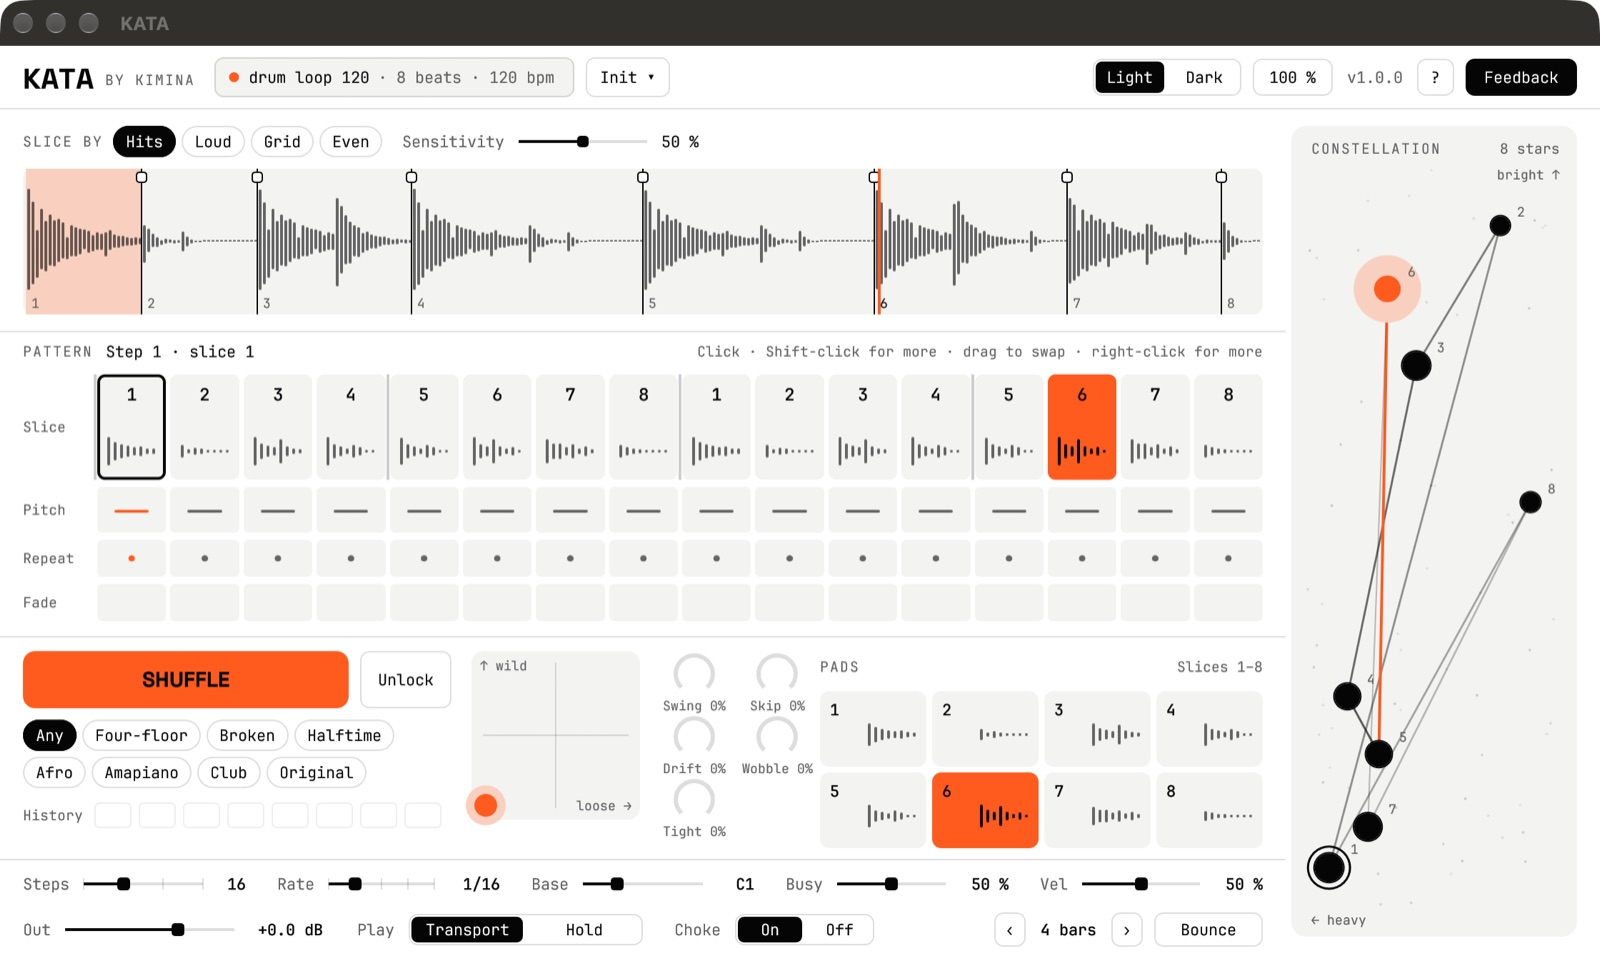
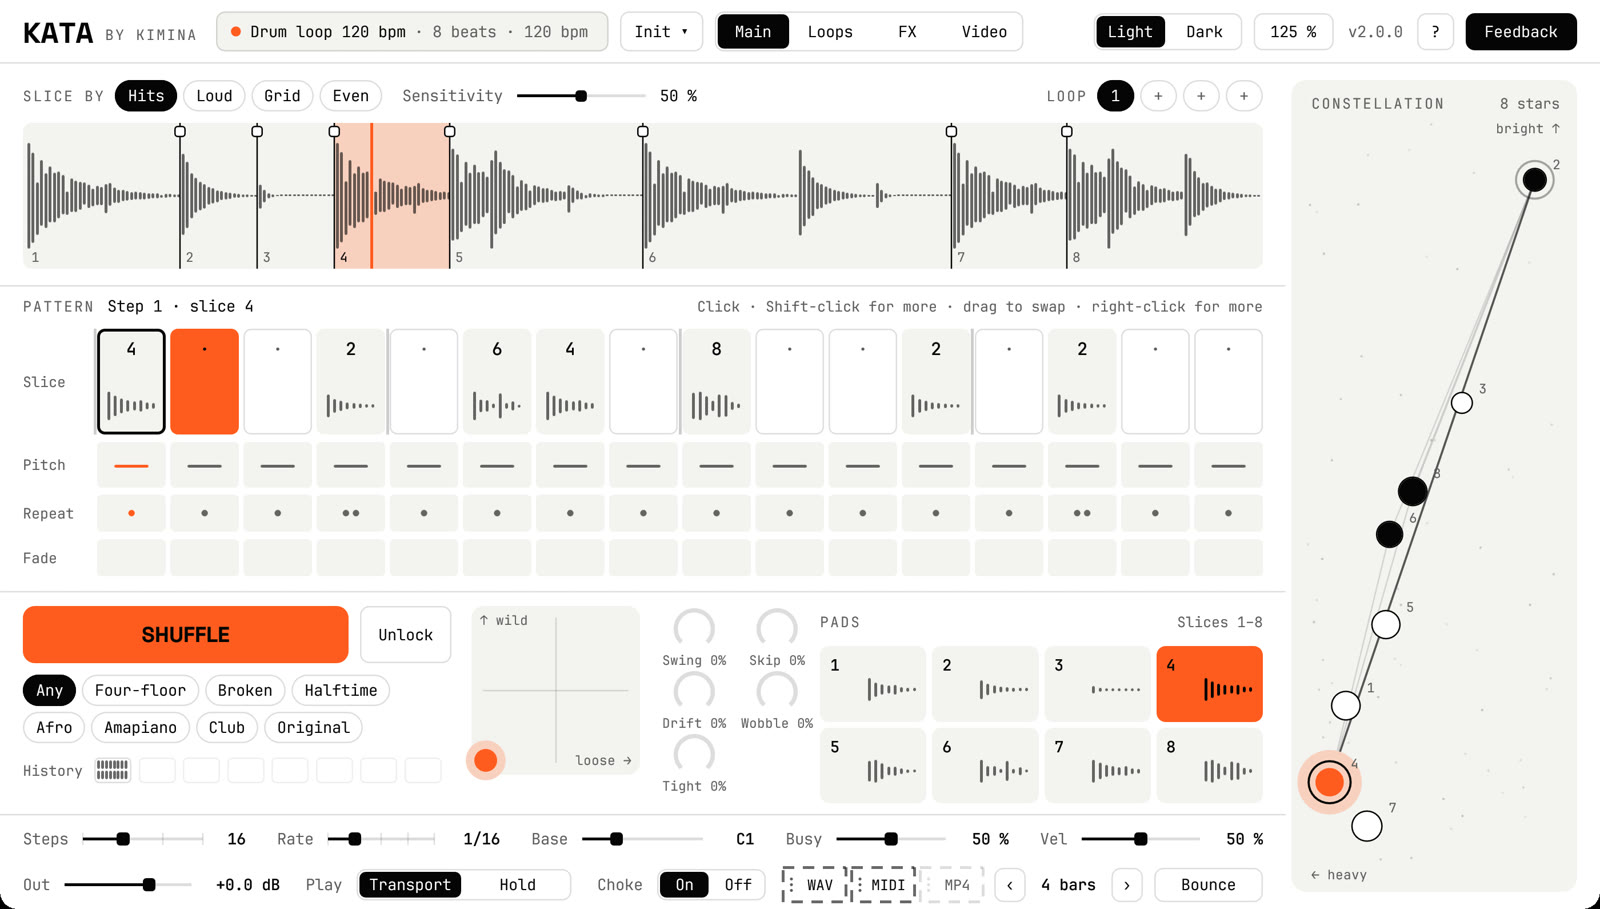
KATA 2.0: page, screenshot, manual and download text

diff --git a/manuals/kata.html b/manuals/kata.html
@@ -18,4 +18,4 @@ ol li{counter-increment:t;display:grid;grid-template-columns:42px 1fr;padding:12
 ol li::before{content:counter(t,decimal-leading-zero);font-size:.62rem;letter-spacing:.1em;padding-top:3px}
 footer a{color:inherit;text-underline-offset:4px}
 footer{display:flex;justify-content:space-between;gap:24px;padding:24px 32px;border-top:1px solid var(--line);font-size:.62rem;letter-spacing:.08em;text-transform:uppercase}
-</style></head><body><header><a href="https://kimina.co.ke/">K.</a><span>CUT.SHUFFLE.PLAY</span></header><main><p style="font-size:.62rem;letter-spacing:.12em;text-transform:uppercase">Kimina · manual</p><h1>Kata</h1><p>KATA (Swahili for "cut") chops a loop into slices and plays them back as a new pattern in time with your song. Drop a loop on it, press Shuffle until something hits, lock the steps you like, and shuffle the rest. Every slice is also on a key, so you can play them yourself.</p><p>Slices are cut at the hits, at the quiet gaps, on a beat grid or into equal parts. The pattern maker listens to each slice (how much low end, how bright, how loud) and puts low hits on the downbeats, bright ones on the ticks and loud mid ones on the backbeats, using rhythm families from four-on-the-floor and breaks to afro house, amapiano and club. Each step can repeat (ratchet), change pitch, play backwards or fade out. Swing, Skip, Drift, Wobble and Tight change how the pattern feels while it plays.</p><p>Drop a video (MP4 or MOV, up to two minutes) instead of a loop and KATA slices its sound; the picture next to the waveform follows whatever slice plays, so repeats, pitch and reverse all show on screen. The sound is saved in your set and the video is linked by its location: if you move the file, the sound still plays and KATA asks you to find it.</p><p>Float opens the video in its own window (resize it, keep it on top, or double-click for full screen on a projector); it keeps following the slices with the plugin window closed. Bounce renders the pattern for 1 to 16 bars to Music/KATA Bounces: a WAV to drag into Live, and for a video an MP4 with the picture re-cut to match. Each bounce is a new take (Skip, Drift and Wobble roll again).</p><p>The loop is saved inside your set. The pattern runs while Live plays (or, with Play set to Hold, while you hold a key below Base).</p><h2>Controls</h2><table><tr><td>Slice By</td><td>Hits: at each transient. Loud: in the quiet gaps. Grid: on the beat. Even: equal parts.</td><td class="def">Hits</td></tr><tr><td>Sensitivity</td><td>Hits and Loud: higher finds more slices, lower keeps only the clearest.</td><td class="def">50 %</td></tr><tr><td>Slices</td><td>Even: how many equal slices.</td><td class="def">16</td></tr><tr><td>Grid</td><td>Grid: the length of each slice in beats, assuming the loop is in time with the song.</td><td class="def">1/16</td></tr><tr><td>Base</td><td>The key for slice 1; each key up plays the next. In Hold mode, keys below run the pattern.</td><td class="def">C1</td></tr><tr><td>Steps</td><td>How long the pattern is: 8, 16, 32 or 64 steps.</td><td class="def">16</td></tr><tr><td>Rate</td><td>How long each step is: eighths, sixteenths, thirty-seconds or triplets.</td><td class="def">1/16</td></tr><tr><td>Play</td><td>Transport: the pattern runs while Live plays. Hold: only while a key below Base is held.</td><td class="def">Transport</td></tr><tr><td>Style</td><td>What Shuffle draws from. Any picks a family each time; Original keeps the loop's order.</td><td class="def">Any</td></tr><tr><td>Busy</td><td>Sparser patterns at 0 %; busier ones with more repeats and fills at 100 %.</td><td class="def">50 %</td></tr><tr><td>Shuffle</td><td>Rolls a new pattern, keeping locked steps. Map it to a button or automate it.</td><td class="def">Off</td></tr><tr><td>Swing</td><td>Pushes every second step late, from straight to a heavy shuffle.</td><td class="def">0 %</td></tr><tr><td>Skip</td><td>The chance that any step drops out as it plays, so the pattern breathes.</td><td class="def">0 %</td></tr><tr><td>Drift</td><td>Plays hits a little late at random, for a looser, human feel.</td><td class="def">0 %</td></tr><tr><td>Wobble</td><td>Shifts each hit's pitch at random, by up to an octave at 100 %.</td><td class="def">0 %</td></tr><tr><td>Tight</td><td>Cuts each hit short: off lets slices ring, higher makes them choppier.</td><td class="def">0 %</td></tr><tr><td>Choke</td><td>On: each pattern hit stops the one before (like a real chop). Off: hits overlap.</td><td class="def">On</td></tr><tr><td>Velocity</td><td>How much playing keys harder makes them louder. 0 %: every note the same.</td><td class="def">50 %</td></tr><tr><td>Output</td><td>KATA's overall level, −24 to +12 dB.</td><td class="def">0.0 dB</td></tr></table><h2>Presets</h2><table><tr><td>Init</td><td>Cut at the hits, sixteen steps of sixteenths, no feel added.</td></tr><tr><td>Chop Shop</td><td>Choppy and tight with a little skip: classic chopped breaks.</td></tr><tr><td>Lazy Swing</td><td>Heavy swing and a bit of drift for a laid-back bounce.</td></tr><tr><td>Log Drum Roll</td><td>Amapiano-style syncopation over two bars.</td></tr><tr><td>Afro Groove</td><td>Afro house rolls on a 32-step pattern.</td></tr><tr><td>Glitch Rain</td><td>Thirty-seconds, random pitch and skips: broken and sparkly.</td></tr><tr><td>Even Sixteen</td><td>Sixteen equal slices in the loop's own order, ready to rearrange.</td></tr><tr><td>Triplet Tumble</td><td>Sixteenth triplets with overlap: rolling and tumbling.</td></tr><tr><td>Hold to Play</td><td>The pattern runs only while you hold a key below C1: play it from a clip.</td></tr></table><h2>Working with it</h2><ol><li>Click a star in the constellation or a slice on the waveform to hear it; drag a star onto a step to put it there.</li><li>Right-click a step to lock it; Shuffle keeps locked steps and rolls the rest.</li><li>Drag a chop line on the waveform to move it (it snaps to hits; hold Shift to move freely). Alt-click adds a chop, Alt-click a line removes it. Reset goes back to automatic slicing.</li><li>Scroll over the waveform to zoom in on the chops; scroll sideways to move along.</li><li>Click the video to make it bigger; B/W shows it in black and white.</li><li>Back swaps to the pattern before the last Shuffle, and pressing it again swaps forward.</li><li>Drag a slider to set it, hold Shift while dragging for fine control, scroll over it to nudge, and double-click or Cmd-click (Ctrl-click on Windows) to reset it.</li><li>Hover any control to read what it does in the footer.</li><li>‹ › step through the factory presets; click the preset name for the full list. A * means you have edited it.</li><li>+ saves the current settings as a user preset: type a name and press Enter (or + again). Saving under a used name replaces it. User presets appear under the factory ones; × deletes one, and Folder opens where they are kept, to back up or share them.</li><li>A / B holds two versions of your settings: tweak one, click the other letter to compare, click back to return.</li></ol></main><footer><span>Kimina Kata</span><a href="https://kimina.co.ke/manuals/">All manuals</a><a href="https://kimina.co.ke/downloads.html">Download</a></footer></body></html>
+</style></head><body><header><a href="https://kimina.co.ke/">K.</a><span>CUT.SHUFFLE.PLAY</span></header><main><p style="font-size:.62rem;letter-spacing:.12em;text-transform:uppercase">Kimina · manual</p><h1>Kata</h1><p>KATA (Swahili for "cut") chops a loop into slices and plays them back as a new pattern in time with your song. Drop a loop on it, press Shuffle until something hits, lock the steps you like, and shuffle the rest. Every slice is also on a key, so you can play them yourself.</p><p>Slices are cut at the hits, at the quiet gaps, on a beat grid or into equal parts. The pattern maker listens to each slice (how much low end, how bright, how loud) and puts low hits on the downbeats, bright ones on the ticks and loud mid ones on the backbeats, using rhythm families from four-on-the-floor and breaks to afro house, amapiano and club. Each step can repeat (ratchet), change pitch, play backwards or fade out. Swing, Skip, Drift, Wobble and Tight change how the pattern feels while it plays.</p><p>Drop a video (MP4 or MOV, up to two minutes) instead of a loop and KATA slices its sound; the picture next to the waveform follows whatever slice plays, so repeats, pitch and reverse all show on screen. The sound is saved in your set and the video is linked by its location: if you move the file, the sound still plays and KATA asks you to find it.</p><p>Float opens the video in its own window (resize it, keep it on top, or double-click for full screen on a projector); it keeps following the slices with the plugin window closed. Bounce renders the pattern for 1 to 16 bars to Music/KATA Bounces: a WAV to drag into Live, and for a video an MP4 with the picture re-cut to match. Each bounce is a new take (Skip, Drift and Wobble roll again).</p><p>The Video tab is a rack of picture effects (Flash, Invert, Punch, Shake, Split, Pixel, Mono) that pulse with every hit. Switch each on or off, drag them into any order, and set how strong each is, how much it only shows on hits (Follow) and how fast it fades (Decay). Float and video bounces show the same look.</p><p>The loop is saved inside your set. The pattern runs while Live plays (or, with Play set to Hold, while you hold a key below Base).</p><h2>Controls</h2><table><tr><td>Slice By</td><td>Hits: at each transient. Loud: in the quiet gaps. Grid: on the beat. Even: equal parts.</td><td class="def">Hits</td></tr><tr><td>Sensitivity</td><td>Hits and Loud: higher finds more slices, lower keeps only the clearest.</td><td class="def">50 %</td></tr><tr><td>Slices</td><td>Even: how many equal slices.</td><td class="def">16</td></tr><tr><td>Grid</td><td>Grid: the length of each slice in beats, assuming the loop is in time with the song.</td><td class="def">1/16</td></tr><tr><td>Base</td><td>The key for slice 1; each key up plays the next. In Hold mode, keys below run the pattern.</td><td class="def">C1</td></tr><tr><td>Steps</td><td>How long the pattern is: 8, 16, 32 or 64 steps.</td><td class="def">16</td></tr><tr><td>Rate</td><td>How long each step is: eighths, sixteenths, thirty-seconds or triplets.</td><td class="def">1/16</td></tr><tr><td>Play</td><td>Transport: the pattern runs while Live plays. Hold: only while a key below Base is held.</td><td class="def">Transport</td></tr><tr><td>Style</td><td>What Shuffle draws from. Any picks a family each time; Original keeps the loop's order.</td><td class="def">Any</td></tr><tr><td>Busy</td><td>Sparser patterns at 0 %; busier ones with more repeats and fills at 100 %.</td><td class="def">50 %</td></tr><tr><td>Shuffle</td><td>Rolls a new pattern, keeping locked steps. Map it to a button or automate it.</td><td class="def">Off</td></tr><tr><td>Swing</td><td>Pushes every second step late, from straight to a heavy shuffle.</td><td class="def">0 %</td></tr><tr><td>Skip</td><td>The chance that any step drops out as it plays, so the pattern breathes.</td><td class="def">0 %</td></tr><tr><td>Drift</td><td>Plays hits a little late at random, for a looser, human feel.</td><td class="def">0 %</td></tr><tr><td>Wobble</td><td>Shifts each hit's pitch at random, by up to an octave at 100 %.</td><td class="def">0 %</td></tr><tr><td>Tight</td><td>Cuts each hit short: off lets slices ring, higher makes them choppier.</td><td class="def">0 %</td></tr><tr><td>Choke</td><td>On: each pattern hit stops the one before (like a real chop). Off: hits overlap.</td><td class="def">On</td></tr><tr><td>Velocity</td><td>How much playing keys harder makes them louder. 0 %: every note the same.</td><td class="def">50 %</td></tr><tr><td>Output</td><td>KATA's overall level, −24 to +12 dB.</td><td class="def">0.0 dB</td></tr><tr><td>Key</td><td>Moves loops by semitones to match Loop 1's key or one you pick. Drums stay put.</td><td class="def">Off</td></tr><tr><td>Tempo</td><td>Original: loops play at their own speed. Re-pitch: at the song's tempo (pitch moves too).</td><td class="def">Original</td></tr><tr><td>Level</td><td>FX bus A or B: how loud the bus plays. Steps sent to a bus play only through it.</td><td class="def">0.0 dB</td></tr><tr><td>Filter</td><td>Switches the bus's filter on or off.</td><td class="def">On</td></tr><tr><td>Filter Mode</td><td>Low keeps the lows, Band a band around the cutoff, High the highs.</td><td class="def">Low</td></tr><tr><td>Cutoff</td><td>Where the filter starts working, 40 Hz to 18 kHz.</td><td class="def">1.2 kHz</td></tr><tr><td>Resonance</td><td>A peak at the cutoff: higher rings and whistles.</td><td class="def">30 %</td></tr><tr><td>Drive</td><td>Switches the bus's drive (soft saturation) on or off.</td><td class="def">Off</td></tr><tr><td>Drive Amount</td><td>How hard the sound is pushed into saturation, up to +30 dB.</td><td class="def">40 %</td></tr><tr><td>Drive Tone</td><td>Darker to brighter after the drive.</td><td class="def">60 %</td></tr><tr><td>Crush</td><td>Switches the bus's bitcrusher on or off.</td><td class="def">Off</td></tr><tr><td>Bits</td><td>Fewer bits: grainier and noisier.</td><td class="def">8.0 bit</td></tr><tr><td>Downsample</td><td>Holds each sample for longer: lower, aliased, lo-fi.</td><td class="def">÷4.0</td></tr><tr><td>Delay</td><td>Switches the bus's tempo-synced ping-pong delay on or off.</td><td class="def">On</td></tr><tr><td>Delay Time</td><td>The time between echoes, in beats of your song.</td><td class="def">3/16</td></tr><tr><td>Feedback</td><td>How many echoes: higher repeats longer.</td><td class="def">40 %</td></tr><tr><td>Delay Mix</td><td>How loud the echoes are against the sound.</td><td class="def">35 %</td></tr><tr><td>Reverb</td><td>Switches the bus's reverb on or off.</td><td class="def">Off</td></tr><tr><td>Size</td><td>A small room to a long hall.</td><td class="def">70 %</td></tr><tr><td>Damp</td><td>Higher makes the reverb's tail darker.</td><td class="def">50 %</td></tr><tr><td>Reverb Mix</td><td>How loud the reverb is against the sound.</td><td class="def">35 %</td></tr><tr><td>Flash</td><td>Switches Flash on or off: the picture jumps towards white.</td><td class="def">Off</td></tr><tr><td>Flash Amount</td><td>How strong Flash is at its peak.</td><td class="def">45 %</td></tr><tr><td>Flash Follow</td><td>100 %: Flash shows only on hits. 0 %: it stays on all the time.</td><td class="def">100 %</td></tr><tr><td>Flash Decay</td><td>How long Flash takes to fade after each hit.</td><td class="def">150 ms</td></tr><tr><td>Invert</td><td>Switches Invert on or off: the picture's colours flip.</td><td class="def">Off</td></tr><tr><td>Invert Amount</td><td>How strong Invert is at its peak.</td><td class="def">90 %</td></tr><tr><td>Invert Follow</td><td>100 %: Invert shows only on hits. 0 %: it stays on all the time.</td><td class="def">100 %</td></tr><tr><td>Invert Decay</td><td>How long Invert takes to fade after each hit.</td><td class="def">60 ms</td></tr><tr><td>Punch</td><td>Switches Punch on or off: the picture zooms in.</td><td class="def">Off</td></tr><tr><td>Punch Amount</td><td>How strong Punch is at its peak.</td><td class="def">35 %</td></tr><tr><td>Punch Follow</td><td>100 %: Punch shows only on hits. 0 %: it stays on all the time.</td><td class="def">100 %</td></tr><tr><td>Punch Decay</td><td>How long Punch takes to fade after each hit.</td><td class="def">250 ms</td></tr><tr><td>Shake</td><td>Switches Shake on or off: the picture jumps sideways and up or down.</td><td class="def">Off</td></tr><tr><td>Shake Amount</td><td>How strong Shake is at its peak.</td><td class="def">50 %</td></tr><tr><td>Shake Follow</td><td>100 %: Shake shows only on hits. 0 %: it stays on all the time.</td><td class="def">100 %</td></tr><tr><td>Shake Decay</td><td>How long Shake takes to fade after each hit.</td><td class="def">120 ms</td></tr><tr><td>Split</td><td>Switches Split on or off: red and blue pull apart.</td><td class="def">Off</td></tr><tr><td>Split Amount</td><td>How strong Split is at its peak.</td><td class="def">50 %</td></tr><tr><td>Split Follow</td><td>100 %: Split shows only on hits. 0 %: it stays on all the time.</td><td class="def">100 %</td></tr><tr><td>Split Decay</td><td>How long Split takes to fade after each hit.</td><td class="def">200 ms</td></tr><tr><td>Pixel</td><td>Switches Pixel on or off: the picture turns into big blocks.</td><td class="def">Off</td></tr><tr><td>Pixel Amount</td><td>How strong Pixel is at its peak.</td><td class="def">50 %</td></tr><tr><td>Pixel Follow</td><td>100 %: Pixel shows only on hits. 0 %: it stays on all the time.</td><td class="def">100 %</td></tr><tr><td>Pixel Decay</td><td>How long Pixel takes to fade after each hit.</td><td class="def">300 ms</td></tr><tr><td>Mono</td><td>Switches Mono on or off: the picture loses its colour.</td><td class="def">Off</td></tr><tr><td>Mono Amount</td><td>How strong Mono is at its peak.</td><td class="def">100 %</td></tr><tr><td>Mono Follow</td><td>100 %: Mono shows only on hits. 0 %: it stays on all the time.</td><td class="def">0 %</td></tr><tr><td>Mono Decay</td><td>How long Mono takes to fade after each hit.</td><td class="def">500 ms</td></tr></table><h2>Presets</h2><table><tr><td>Init</td><td>Cut at the hits, sixteen steps of sixteenths, no feel added.</td></tr><tr><td>Chop Shop</td><td>Choppy and tight with a little skip: classic chopped breaks.</td></tr><tr><td>Lazy Swing</td><td>Heavy swing and a bit of drift for a laid-back bounce.</td></tr><tr><td>Log Drum Roll</td><td>Amapiano-style syncopation over two bars.</td></tr><tr><td>Afro Groove</td><td>Afro house rolls on a 32-step pattern.</td></tr><tr><td>Glitch Rain</td><td>Thirty-seconds, random pitch and skips: broken and sparkly.</td></tr><tr><td>Even Sixteen</td><td>Sixteen equal slices in the loop's own order, ready to rearrange.</td></tr><tr><td>Triplet Tumble</td><td>Sixteenth triplets with overlap: rolling and tumbling.</td></tr><tr><td>Hold to Play</td><td>The pattern runs only while you hold a key below C1: play it from a clip.</td></tr></table><h2>Working with it</h2><ol><li>Click a star in the constellation or a slice on the waveform to hear it; drag a star onto a step to put it there.</li><li>Right-click a step to lock it; Shuffle keeps locked steps and rolls the rest.</li><li>Drag a chop line on the waveform to move it (it snaps to hits; hold Shift to move freely). Alt-click adds a chop, Alt-click a line removes it. Reset goes back to automatic slicing.</li><li>Scroll over the waveform to zoom in on the chops; scroll sideways to move along.</li><li>Click the video to make it bigger; B/W shows it in black and white.</li><li>Back swaps to the pattern before the last Shuffle, and pressing it again swaps forward.</li><li>Drag a slider to set it, hold Shift while dragging for fine control, scroll over it to nudge, and double-click or Cmd-click (Ctrl-click on Windows) to reset it.</li><li>Hover any control to read what it does in the footer.</li><li>‹ › step through the factory presets; click the preset name for the full list. A * means you have edited it.</li><li>+ saves the current settings as a user preset: type a name and press Enter (or + again). Saving under a used name replaces it. User presets appear under the factory ones; × deletes one, and Folder opens where they are kept, to back up or share them.</li><li>A / B holds two versions of your settings: tweak one, click the other letter to compare, click back to return.</li></ol></main><footer><span>Kimina Kata</span><a href="https://kimina.co.ke/manuals/">All manuals</a><a href="https://kimina.co.ke/downloads.html">Download</a></footer></body></html>

diff --git a/AGENTS.md b/AGENTS.md
@@ -635,3 +635,9 @@ After the push of 3f856da the live site served the repo's root files, not the bu
 - Verified: build and check pass; headless Brave at 1280 px and at a real 390 px viewport (iframe; scrollWidth = 390, no horizontal scroll). Not verified: a real phone.
 - Same day: the user supplied the Drive folder (https://drive.google.com/drive/folders/1xY74TMH165bzrz_JMNdISZcVzdIG4HfF, "Kata Plugin", link-shared). Both zips in it match the local `dist/` files byte for byte. `download_url` set in `site/kata.njk`; `site/content/downloads/kata.md` published with that link (Downloads, and Works as an instrument). Build and check pass; pushed.
 - Same day, user's request: manual wording fixed in KATA (`meta.rs`: "on the map" → a star in the constellation or a slice on the waveform; "above the slice map" → "next to the waveform"). `manuals/kata.html` regenerated and pushed. The zips were rebuilt (still 1.0.0); the user re-uploads them to the same Drive folder.
+
+### 2026-11-28: KATA 2.0
+kata.html updated for KATA 2.0 (Mac only; Windows stays on 1.0 in the same Drive folder): four "New in 2.0" items,
+new hero screenshot `images/kata/kata-light.jpg` (2.0, light theme, synthetic drum loop, 1600×909, `?v=2`),
+Downloads summary and Tech card text, `manuals/kata.html` regenerated from the 2.0 plugin. Drive checked before
+pushing: KATA-2.0.0-macOS.zip present at the built size.

diff --git a/site/content/downloads/kata.md b/site/content/downloads/kata.md
@@ -7,7 +7,7 @@ title: KATA
 date: 2026-11-27
 kind: VST3 / CLAP Plugin
 summary: |-
-  Loop slicer and pattern instrument: chops a loop, or the sound of a video, into slices and shuffles them into new patterns in time with your song. Mac (Apple Silicon and Intel) and Windows. Free and open source.
+  Loop slicer and pattern instrument: chops up to four loops, or the sound of a video, into slices and shuffles them into new patterns in time with your song, with effect buses, video effects and drag into Live. Version 2.0 for Mac (Apple Silicon and Intel); 1.0 for Windows. Free and open source.
 external_url: https://drive.google.com/drive/folders/1xY74TMH165bzrz_JMNdISZcVzdIG4HfF?usp=sharing
 external_label: Google Drive
 manual_url: kata.html
